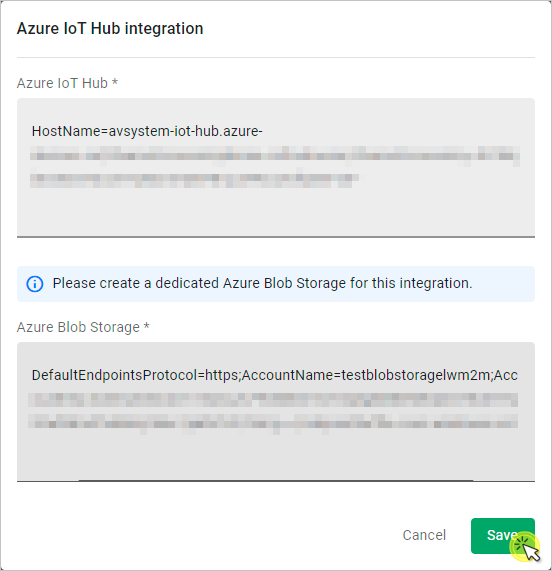
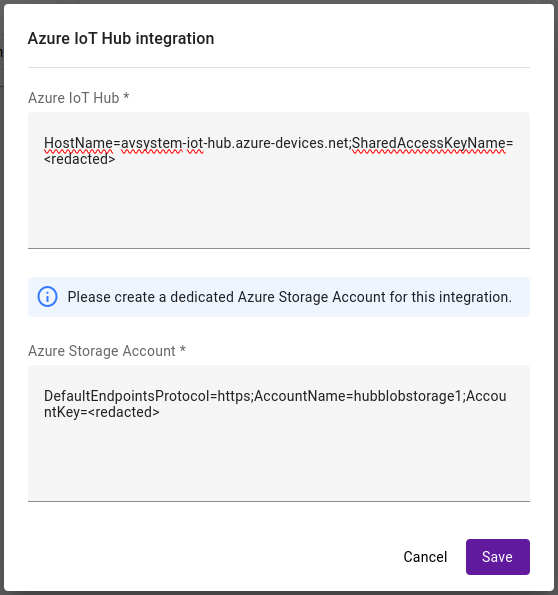
update docs for Azure IoT Central, Hub and AWS IoT Core (#186)
* update docs for Azure IoT Central, Hub and AWS IoT Core

---------

Changed region(s): [[0.0, 0.0, 1.0, 1.0], [0.154, 0.8336, 0.8623, 0.8634]]

diff --git a/docs/Cloud_integrations/AWS_IoT_Core/Configuring_AWS_integration.md b/docs/Cloud_integrations/AWS_IoT_Core/Configuring_AWS_integration.md
@@ -31,51 +31,38 @@ To start integrating AWS with {{ coiote_short_name }}, you first need to create 
 
 1. Go to your {{ coiote_short_name }} account and from the **Administration** menu, select **Users management**.
 2. Select **Add user** and fill in the form:
-![Add user button](images/add_button2.png "Add user button")
+![Add user button](images/user_management.png "Add user button")
     - Provide **Email** for new user (which will be its username) and select your domain from the **Domain path** drop-down list.
-    - Remember to switch on the **User Verified** and **User Enabled** toggle buttons.
-    - In the **Client Roles** fields, pick the **{{ coiote_short_name }}** client and **awsiottenant** role.
-![Add REST user](images/add_rest_user2.png "Add REST user")
-    - Click **Save**.
-    - Go to the **Credentials** tab, type a password for your user (twice), select **Set password**, then confirm by clicking **Set password** in the pop-up.
+    - Remember to switch off the **Require e-mail verification after first login** and switch on 
+      **Activate user account after creation** toggle buttons.
+![Add REST user 1](images/add_rest_user.png "Add REST user 1")
+    - Click **Next step**
+    - In the "Permissions" step select **awsiottenant** role
+![Add REST user 2](images/add_rest_user_2.png "Add REST user 2")
+    - Click **Next step**, review data and click **Add user**
+    - Go to the **User account** details view
+    - change a password if needed (remember to switch off **Require user to change password on next login**)
+    - remove **Accept Terms of Service** from the Next login actions
+![Add REST user 3](images/add_rest_user_3.png "Add REST user 3")
 
-## Copy tasks and provide credentials for your device group in {{ coiote_short_name }}
-
-The {{ coiote_short_name }}-side configuration of the integration is located in the dedicated `AWSiotCoreCertAuth` device group. To complete this side of the integration, log in as the user with the **awsiottenant** role (only if that user was created in the Root **Domain**. If not, they can not access the root groups and the tasks have to be copied from the **Cloud admin** account.).
-Then follow the steps below:
-
-1. Go to the **Device groups** panel and select a group:
-    - For the default setting, select the **AWSiotCoreCertAuth** group which already contains all the necessary tasks and setting values.
-    - Alternatively, create a new group and migrate the required tasks and setting values:
-        - Select the **Add** button, name your group and click **Add**.
-        ![Add group button](images/add_group_button.png "Add group button")
-        - Migrate all the five tasks that have the **AWS** prefix in their task name:
-            - Select the **AWSiotCoreCertAuth** group and go to **Group tasks**, select the first **AWS** task and click **Copy**.
-              ![Copy task](images/copy_task.png "Copy task")
-            - In the pop-up window, click **Select group** in the **Task target** field and choose your custom integration group from the list.
-            - !!! important
-                  Remember to select the **Domain** of the user you created earlier.
-            - In the **Actions** field, select **Add new task**.
-              ![Copy task pop-up](images/copy_task_popup.png "Copy task pop-up")
-            - Repeat the action for the remaining four tasks.
-        - Migrate the `AWSdataPlaneEndpointAddress` setting value:
-            - Select your custom integration group and go to **Profiles**, then select **Copy from**.
-              ![Copy setting values](images/copy_svs.png "Copy setting values")
-            - In the pop-up window, click **Select group** and select the **AWSiotCoreCertAuth** group.
-            - Pick the `AWSdataPlaneEndpointAddress` setting value from the list by checking it in the **Selected** column, then click **Copy**.
-              ![Copy setting values pop-up](images/copy_sv_popup.png "Copy setting values pop-up")
-2. Enter your AWS Endpoint Name in {{ coiote_short_name }}:
-    - Go to **Device groups**, select your custom integration group (or the **AWSiotCoreCertAuth** group, depending on the previous step) and go to **Profiles**. Complete the **AWS** setting value:
+## Set up the **AWS** integration
+1. Get the AWS Data Plane Endpoint Address
     - Open your command line and run the following command:
-           ```
-           aws iot describe-endpoint --endpoint-type iot:Data-ATS --region <desired-region-for-the-integration>
-           ```
-    - Copy the returned result.
-      ![Copy data plane endpoint address](images/dataplane.png "Copy data plane endpoint address"){: style="float: left;margin-right: 1177px;margin-top: 17px;"}
-    - In {{ coiote_short_name }}, go to the **Profiles** tab of your integration group and paste the result as the value for `AWSdataPlaneEndpointAddress`.
-    - Append `:8443` port to the pasted value.
-    - Click **Save**.
-3. Optionally, you may now add your LwM2M devices to the integration device group so that they are ready once the integration setup is complete.
+      ```
+      aws iot describe-endpoint --endpoint-type iot:Data-ATS --region <desired-region-for-the-integration>
+      ```
+    - Copy the returned result.<br>
+      ![Copy data plane endpoint address](images/dataplane.png "Copy data plane endpoint address")
+2. In your {{ coiote_short_name }} user account, go to **Integrations** → **AWS Integration**
+   ![AWS Integration menu link](images/aws_integration.png "AWS Integration menu link")
+3. On the **AWS IoT Core** tile click **Connect**
+4. In the dialog window, paste the previously copied **AWS Data Plane Endpoint Address** into the relevant field. Remember to append **:8443** port to the pasted value<br>
+![AWS Integration configuration](images/aws-config.png "AWS Integration configuration")
+<!-- end of the list -->
+* After those steps in the **Device groups** panel a new group **AWSIotCoreIntegration** should be created.
+![AWS IoT Core Group](images/aws_group.png "AWS IoT Core Group")
+
+Once the setup is completed you may add your LwM2M devices to the **AWSIotCoreIntegration** group to synchronize them with AWS IoT Core.
 
 ## Add AWS resources using the integration repository
 

diff --git a/docs/Cloud_integrations/Azure_IoT/Azure_IoT_Hub/Configure_Azure_IoT_Hub_integration.md b/docs/Cloud_integrations/Azure_IoT/Azure_IoT_Hub/Configure_Azure_IoT_Hub_integration.md
@@ -28,15 +28,15 @@ The Azure IoT Hub connection string is required in the integration process. Here
     !!! info
         For detailed information about the IoT Hub permissions, please visit the [Control access to IoT Hub](https://docs.microsoft.com/en-us/azure/iot-hub/iot-hub-devguide-security#access-control-and-permissions) section of the Azure IoT Hub documentation.
 
-### Get the Azure Blob storage connection string
+### Get the Azure Storage Account connection string
 
 !!! important
-    For the integration to work properly, it is required to have an empty Azure Blob storage account dedicated exclusively for the integration.
+    For the integration to work properly, it is required to have an empty Azure Storage Account dedicated exclusively for the integration.
 
-An Azure Blob storage connection string is required in the integration process. Here is how to obtain it:
+An Azure Storage Account connection string is required in the integration process. Here is how to obtain it:
 
-0. In your Azure Blob storage account, go to **Access keys**.
-   ![Azure Blob Storage](images/blob_storage.png "Getting Azure Blob Storage connection string")
+0. In your Azure Storage account, go to **Access keys**.
+   ![Azure Blob Storage](images/blob_storage.png "Getting Azure Storage Account connection string")
 0. Click **Show keys**, click the copy icon next to the **connection string** and paste it into Notepad or any other safe place to keep it for later.
 
 ### Set up the **Azure IoT Hub integration**
@@ -46,7 +46,7 @@ Use the obtained credentials to establish the integration between {{ coiote_shor
 0. In your {{ coiote_short_name }} user account, go to **Integrations** → **Hyperscaler Integration Center**
   ![Hyperscaler Integration Center menu link](images/azure-integration.png "Hyperscaler Integration Center menu link")
 0. In the **Integrations** tab, find the **Azure IoT Hub** tile and click **Connect**.
-0. In the dialog window, paste the previously copied IoT Hub connection string and Azure Blob storage connection string into the relevant fields.
+0. In the dialog window, paste the previously copied IoT Hub connection string and Azure Storage Account connection string into the relevant fields.
   ![Setting up the integration](images/connect_hub.png "Setting up the Azure integration"){:style="float: left;margin-right: 1177px;margin-top: 17px;"}
       - click **Save** to keep the setting.
 

diff --git a/docs/Cloud_integrations/Azure_IoT/Azure_IoT_Central/Configure_Azure_IoT_Central_integration.md b/docs/Cloud_integrations/Azure_IoT/Azure_IoT_Central/Configure_Azure_IoT_Central_integration.md
@@ -25,8 +25,8 @@ _______________
 
 Use the obtained credentials to establish the integration between {{ coiote_short_name }} and your Azure IoT Central application:
 
-0. In your {{ coiote_short_name }} user account, go to **Administration --> Hyperscaler Integration Center**
-    ![Hyperscaler Integration Center menu link](images/HIC_menu.png "Hyperscaler Integration Center menu link")
+0. In your {{ coiote_short_name }} user account, go to **Integrations** → **Hyperscaler Integration Center**
+   ![Hyperscaler Integration Center menu link](images/azure-integration.png "Hyperscaler Integration Center menu link")
 0. In the **Integration** tab, find the **Azure IoT Central** tile and click **Connect**.
 0. In the dialog window, paste the previously copied **Application URL** and **API token** into the relevant fields.
   ![Setting up the integration](images/central_extension_setup.png "Setting up the Azure integration"){:style="float: left;margin-right: 1177px;margin-top: 17px;"}
